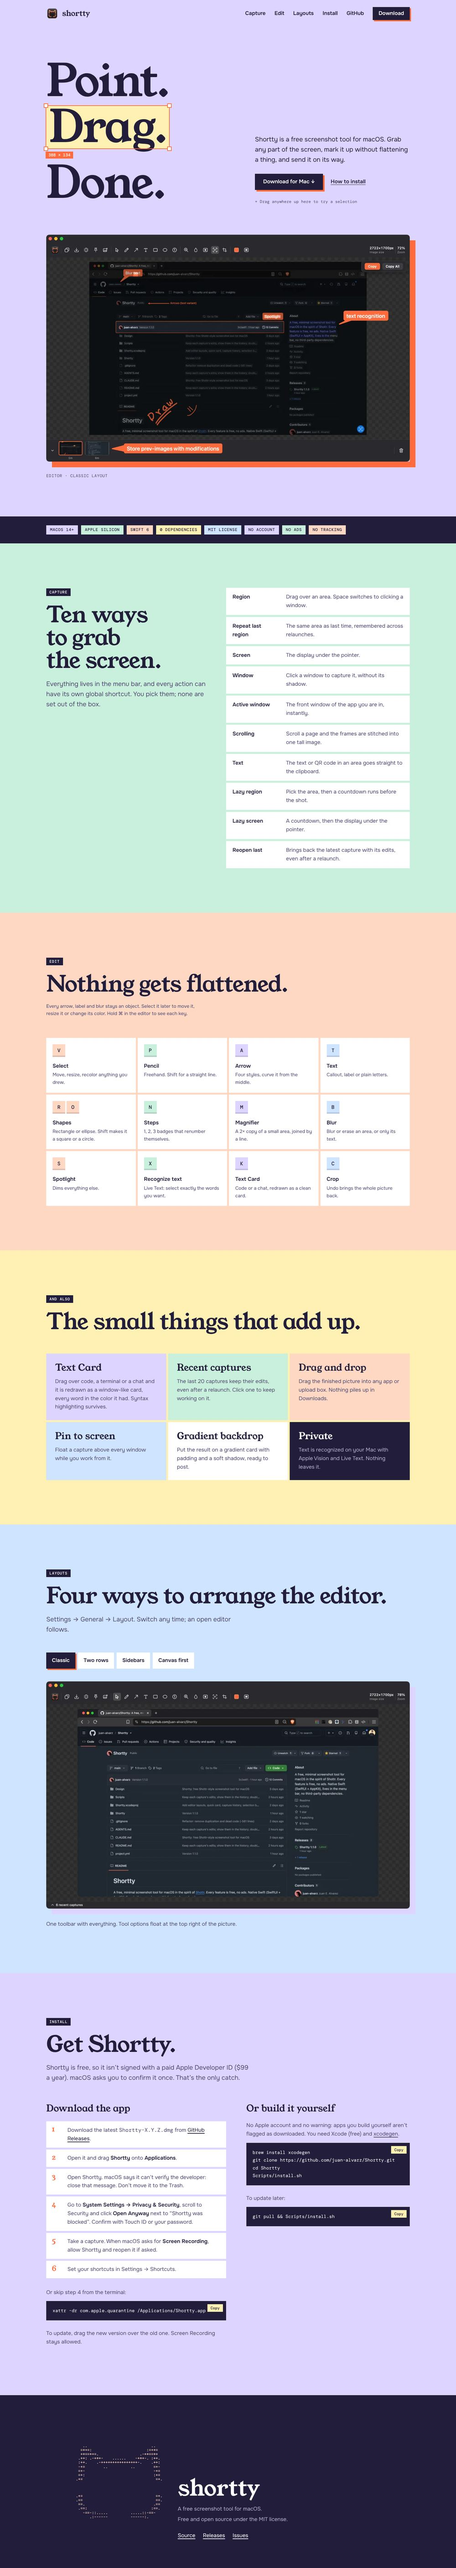
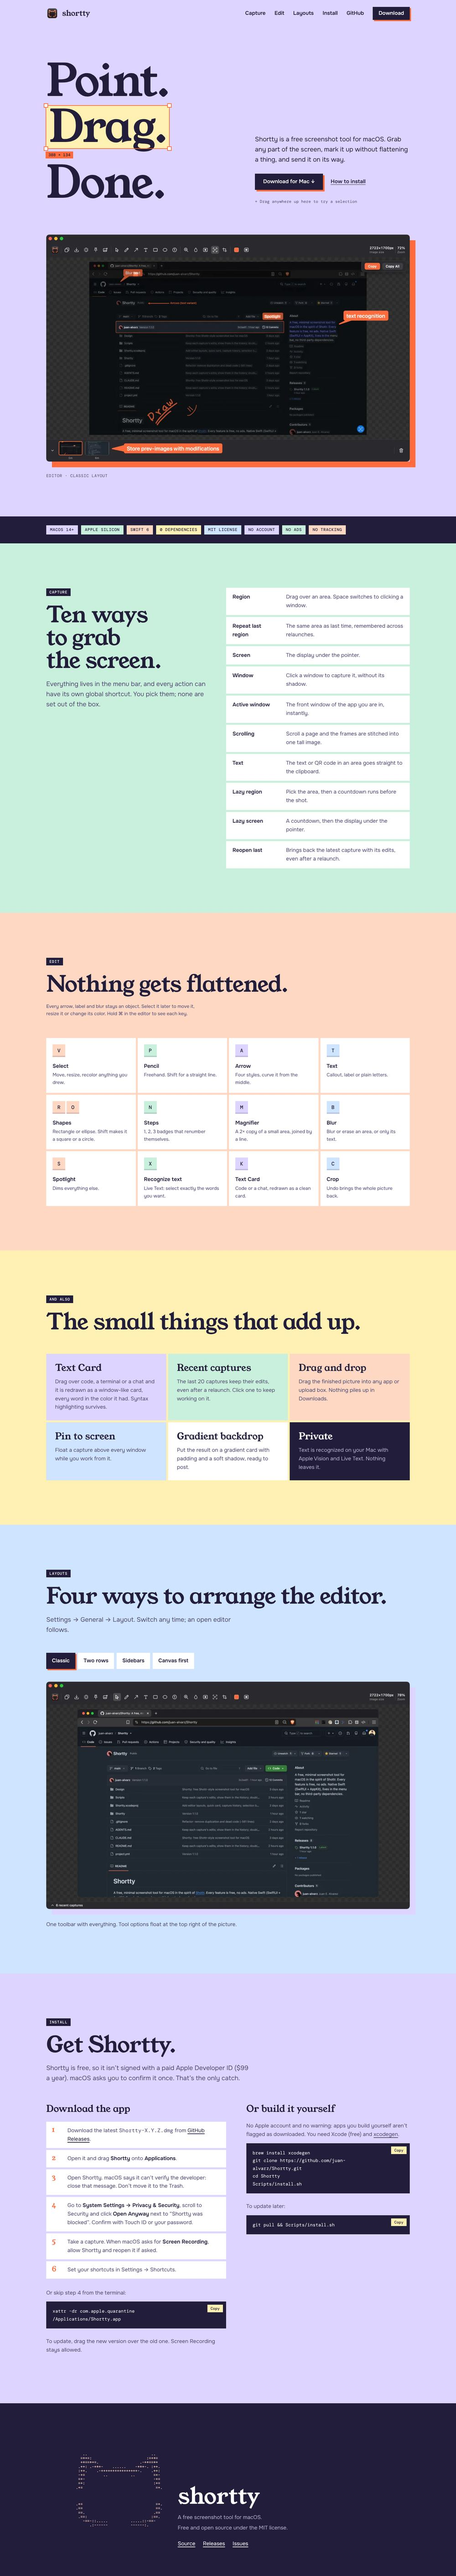
Fix: wrap install commands so they don't run under the Copy button; readable size tag
Claude-Session: https://claude.ai/code/session_019xH8RKv4cB1Pgr3WMhaeZY

diff --git a/src/styles/global.css b/src/styles/global.css
@@ -148,7 +148,7 @@ code, pre { font-family: var(--mono); }
   font: 500 0.75rem/1 var(--mono);
   letter-spacing: 0.04em;
   background: var(--accent);
-  color: var(--white);
+  color: var(--dark);
 }
 
 @media (prefers-reduced-motion: reduce) {
